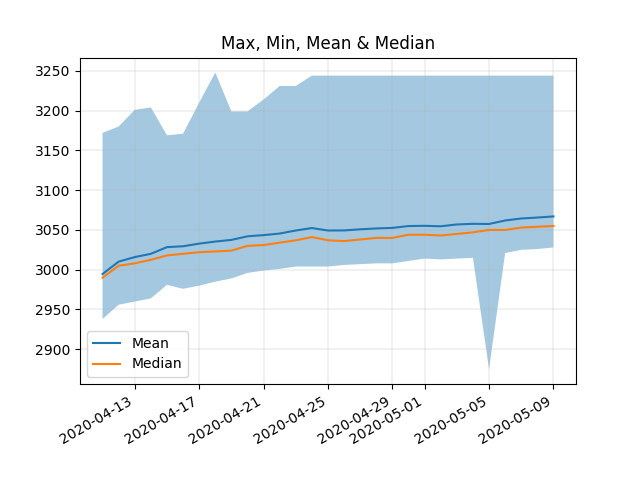
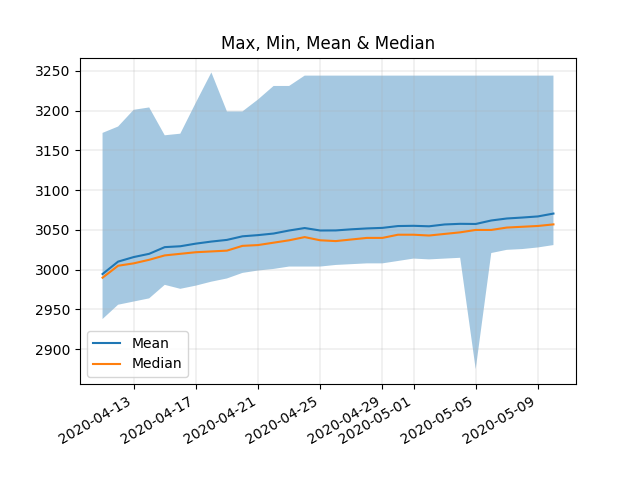
Sun May 10 15:30:14 EDT 2020

diff --git a/README.md b/README.md
@@ -1,10 +1,11 @@
 # MMR Drift Status
 
-**Last Updated (UTC):** 2020-05-09 21:15:10.905716
+**Last Updated (UTC):** 2020-05-10 19:30:13.965238
 ![Figure 1](/images/fig1.png)
 ![Figure 2](/images/fig2.png)
 |date| min| max| mean| drift_daily| drift_total| median| stdev|
 |:---|:---|:---|:---|:---|:---|:---|:--- |
+|10-May-2020| 3031| 3244| 3070.6| 3.5| 76.0| 3057.0| 37.9|
 |09-May-2020| 3028| 3244| 3067.0| 1.4| 72.4| 3055.0| 38.1|
 |08-May-2020| 3026| 3244| 3065.6| 1.2| 71.0| 3054.0| 36.9|
 |07-May-2020| 3025| 3244| 3064.4| 2.5| 69.8| 3053.0| 37.0|
